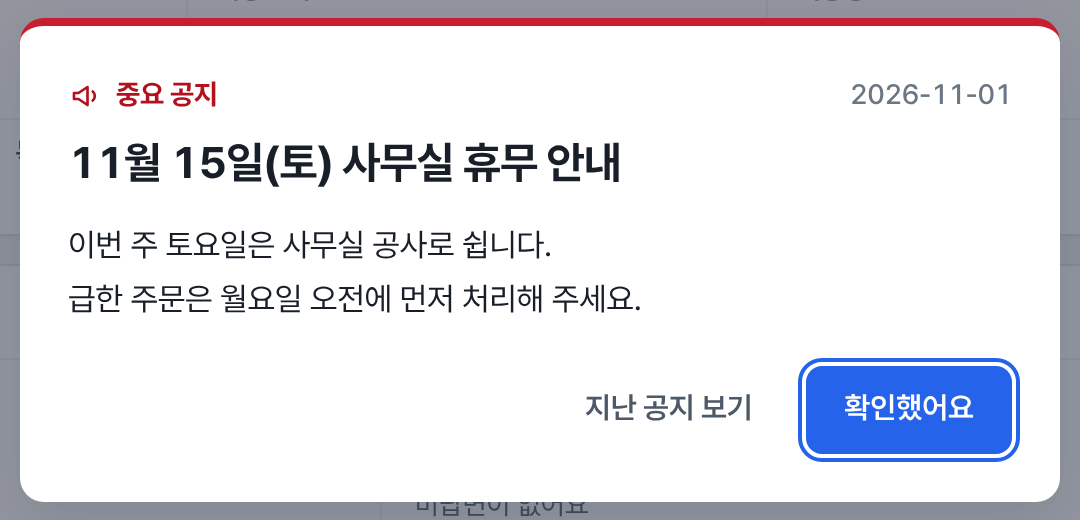
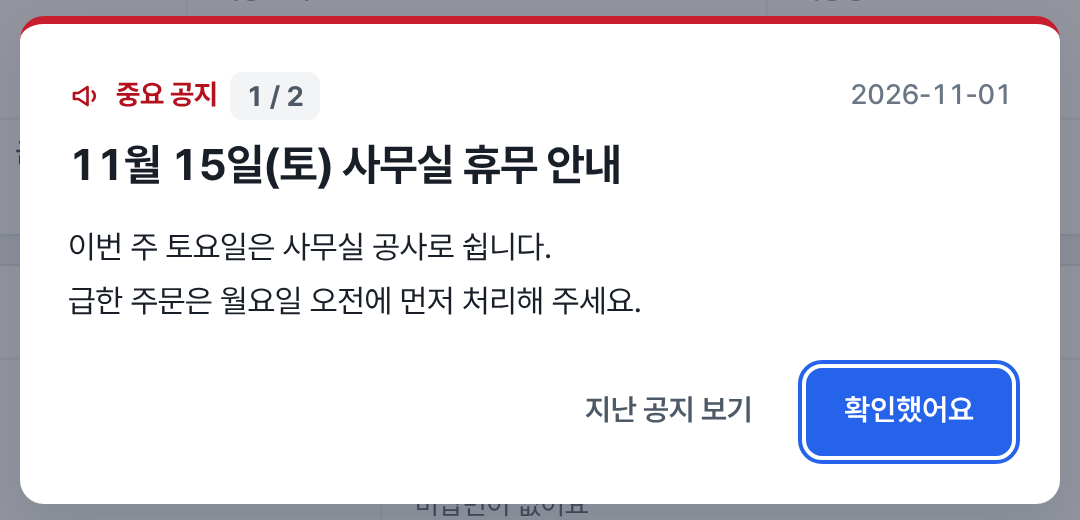
G마켓·옥션 주문확인·발송처리를 인트라넷에서 (ESM_WRITE=on 일 때만 실제로, 로젠 10003·경동 10016, 택배만), 공지 팝업에 몇 번째인지(1 / 3)
- esmClient: OrderCheck·ShippingInfo 를 허용 목록에 (write, allowWrite 클라이언트만, 처리 요청은 다시 보내지 않음)
- esm.js createEsmWriter, actions WRITE_CHANNELS 에 esm, server.js ESM_WRITE, .env.example·DEPLOY 20장
- 로젠 자동 발송처리도 G마켓·옥션 발주확인 주문에 적용
- 사용 방법 G마켓·옥션·공지 글, 공지 팝업 그림

Claude-Session: https://claude.ai/code/session_01Abfsu9LLooC7rduTcq19z3

diff --git a/src/channels/esmClient.js b/src/channels/esmClient.js
@@ -1,7 +1,8 @@
 // G마켓·옥션 (ESM Trading API) 연결
 //
-// 안전장치 1: 아래 ALLOWED 에 맞는 주소만 호출할 수 있다 (지금은 조회만: 주문·취소·반품·교환).
-// 안전장치 2: 상태를 바꾸는 주소(주문확인·발송처리 등)는 아직 목록에 없다 — 다음 단계에서 ESM_WRITE=on 일 때만 더한다.
+// 안전장치 1: 아래 ALLOWED 에 맞는 주소만 호출할 수 있다 (조회: 주문·취소·반품·교환 / 처리: 주문확인·발송처리).
+// 안전장치 2: 상태를 바꾸는 주소(write: true)는 allowWrite 로 만든 클라이언트만 부른다 — 서버는 .env 의 ESM_WRITE=on 일 때만 만든다.
+//            처리 요청은 다시 보내지 않는다 (두 번 처리되지 않게).
 //
 // 인증(JWT, HS256): 매 요청마다 시크릿키로 서명한 토큰을 Authorization: Bearer 로 보낸다 (etapi.gmarket.com 'API 가이드')
 //   header  { alg: HS256, typ: JWT, kid: ESM+ 마스터 ID }
@@ -26,6 +27,9 @@ const ALLOWED = [
   { method: 'POST', pattern: /^\/claim\/v1\/sa\/Cancels$/ },
   { method: 'POST', pattern: /^\/claim\/v1\/sa\/Returns$/ },
   { method: 'POST', pattern: /^\/claim\/v1\/sa\/Exchanges$/ },
+  // 처리 (ESM_WRITE=on 일 때만): 주문확인(결제완료 → 배송준비중), 발송처리(택배사·송장번호 → 배송중)
+  { method: 'POST', pattern: /^\/shipping\/v1\/Order\/OrderCheck\/\d+$/, write: true },
+  { method: 'POST', pattern: /^\/shipping\/v1\/Delivery\/ShippingInfo$/, write: true },
 ];
 
 function findAllowed(method, path) {
@@ -72,6 +76,7 @@ function createEsmClient({
   fetchFn = fetch,
   sleep = realSleep,
   now = () => new Date(),
+  allowWrite = false,
 } = {}) {
   let nextAny = 0;
   let nextRange = 0;
@@ -86,9 +91,14 @@ function createEsmClient({
   }
   const rangeDone = () => { nextRange = Date.now() + RANGE_GAP_MS; };
 
-  async function request(method, path, json = {}) {
-    if (!findAllowed(method, path)) {
+  // opts.site: 'G' / 'A' — 본문에 사이트가 없는 처리 요청(주문확인·발송처리)에서 토큰에 넣을 사이트
+  async function request(method, path, json = {}, opts = {}) {
+    const rule = findAllowed(method, path);
+    if (!rule) {
       throw Object.assign(new Error(`허용되지 않은 G마켓·옥션 API 호출입니다: ${method} ${path}`), { notSent: true });
+    }
+    if (rule.write && !allowWrite) {
+      throw Object.assign(new Error(`G마켓·옥션 주문 처리가 꺼져 있습니다 (ESM_WRITE=on 이 아님): ${method} ${path}`), { notSent: true });
     }
     if (!masterId || !secretKey || !sites.length) {
       throw Object.assign(new Error('ESM_MASTER_ID / ESM_SECRET_KEY / ESM_GMARKET_ID(또는 ESM_AUCTION_ID) 가 .env 에 없습니다.'), { notSent: true });
@@ -97,8 +107,9 @@ function createEsmClient({
     const isRange = /RequestOrders$/.test(path) && Number(json.orderStatus) !== 0;
     // 이 요청의 사이트 (1 옥션 · 2 G마켓) → 토큰에 그 사이트 판매자 ID 하나만
     //   (정산조회는 사이트를 숫자 대신 'A'·'G' 글자로 보낸다)
-    const rawSite = json.siteType ?? json.SiteType;
+    const rawSite = opts.site ?? json.siteType ?? json.SiteType;
     const site = rawSite === 'A' || Number(rawSite) === 1 ? 'A' : rawSite === 'G' || Number(rawSite) === 2 ? 'G' : null;
+    if (rule.write && !site) throw Object.assign(new Error('처리할 사이트(G마켓·옥션)를 알 수 없습니다.'), { notSent: true });
     for (let attempt = 0; ; attempt++) {
       await wait(isRange);
       let res;
@@ -122,13 +133,13 @@ function createEsmClient({
       let body = null;
       try { body = text ? JSON.parse(text) : null; } catch { body = null; }
       // 429(요청이 많음)는 처리하지 않고 거절한 것이라 다시 보내도 안전하다 (조회만 하므로)
-      if (res.status === 429 && attempt < RETRY_WAITS_MS.length) {
+      if (res.status === 429 && !rule.write && attempt < RETRY_WAITS_MS.length) {
         await sleep(RETRY_WAITS_MS[attempt]);
         continue;
       }
       const code = body && (body.ResultCode ?? body.resultCode);
       const busyMsg = body && (body.Message || body.message);
-      if (isBusy(code, busyMsg) && attempt < BUSY_WAITS_MS.length) {
+      if (isBusy(code, busyMsg) && !rule.write && attempt < BUSY_WAITS_MS.length) {
         await sleep(BUSY_WAITS_MS[attempt]);
         continue;
       }

diff --git a/src/channels/esm.js b/src/channels/esm.js
@@ -1,4 +1,4 @@
-// G마켓·옥션(ESM) 주문 가져오기 (1단계: 조회 전용)
+// G마켓·옥션(ESM) 주문 가져오기 (1단계: 조회) + 주문확인·발송처리 (2단계: ESM_WRITE=on 일 때만, 맨 아래 createEsmWriter)
 //
 // ESM 주문번호(OrderNo) 하나 = 상품 하나. 인트라넷에서는 주문번호 하나를 주문 카드 하나로 본다.
 //   번호 앞에 사이트를 붙인다: G-2946269058 (G마켓) · A-1234567890 (옥션)
@@ -255,4 +255,56 @@ function esmProductUrl(itemId, productNo) {
     : `https://itempage3.auction.co.kr/DetailView.aspx?itemno=${productNo}`;
 }
 
-module.exports = { createEsmSource, normalize, claimPatch, evenShipFee, splitId, esmProductUrl, STATUS_MAP, CLAIMS };
+// ── 주문확인·발송처리 (2단계, 서버 .env 의 ESM_WRITE=on 일 때만 만든다 — src/server.js) ──
+// 인트라넷 택배사 → ESM 택배사 코드 (ESM '택배사 리스트 조회': 10003 로젠택배 · 10016 경동택배)
+const ESM_COURIERS = { KGB: 10003, KDEXP: 10016 };
+// 발송일시: 한국 시각 'YYYY-MM-DDThh:mm:ss' (ESM 은 호출 시점 2일 안의 시각만 받는다)
+const kstStamp = date => new Date(date.getTime() + 9 * 3600 * 1000).toISOString().slice(0, 19);
+
+// 주문(=상품) 하나씩 보내고, 결과를 다른 채널과 같은 모양으로 모은다 (actions.js 의 parseResult)
+//   ESM 이 거절(4xx·코드 3000 등)하면 그 주문만 실패, 응답이 끊기면(5xx·시간 초과) 결과를 알 수 없음 → 그대로 던진다
+function createEsmWriter(options = {}) {
+  const client = options.client || createEsmClient({ ...options, allowWrite: true });
+  const now = options.now || (() => new Date());
+  async function each(ids, call) {
+    const success = [];
+    const fail = [];
+    for (const id of ids) {
+      const p = splitId(id);
+      if (!p) { fail.push({ productOrderId: id, message: '주문번호 모양이 다릅니다' }); continue; }
+      try {
+        await call(p, id);
+        success.push(id);
+      } catch (e) {
+        if (e.notSent || (e.status && e.status < 500) || (e.body && e.body.ResultCode !== undefined)) {
+          fail.push({ productOrderId: id, message: String(e.message || '실패').replace(/^G마켓·옥션 API 오류 \([^)]*\):\s*/, '') });
+        } else {
+          throw e;
+        }
+      }
+    }
+    return { data: { successProductOrderIds: success, failProductOrderInfos: fail } };
+  }
+  return {
+    // 주문확인: 결제완료 → 배송준비중
+    confirm(itemIds) {
+      return each(itemIds, p => client.request('POST', `/shipping/v1/Order/OrderCheck/${p.orderNo}`, {}, { site: p.site }));
+    },
+    // 발송처리: 택배사 코드 + 송장번호 (ESM 은 택배로만)
+    dispatch(list) {
+      const byId = new Map(list.map(l => [l.productOrderId, l]));
+      return each(list.map(l => l.productOrderId), (p, id) => {
+        const l = byId.get(id);
+        const code = ESM_COURIERS[l.deliveryCompanyCode];
+        if (l.deliveryMethod !== 'DELIVERY' || !code || !l.trackingNumber) {
+          throw Object.assign(new Error('G마켓·옥션은 택배(로젠·경동)와 송장번호로만 발송처리할 수 있어요.'), { notSent: true });
+        }
+        return client.request('POST', '/shipping/v1/Delivery/ShippingInfo', {
+          OrderNo: Number(p.orderNo), ShippingDate: kstStamp(now()), DeliveryCompanyCode: code, InvoiceNo: String(l.trackingNumber),
+        }, { site: p.site });
+      });
+    },
+  };
+}
+
+module.exports = { createEsmSource, createEsmWriter, ESM_COURIERS, normalize, claimPatch, evenShipFee, splitId, esmProductUrl, STATUS_MAP, CLAIMS };

diff --git a/src/actions.js b/src/actions.js
@@ -1,11 +1,11 @@
-// 주문 처리: 발주확인, 발송처리 (2차 스마트스토어, 3차 쿠팡·자사몰), 발송지연 처리 (스마트스토어만)
+// 주문 처리: 발주확인, 발송처리 (2차 스마트스토어, 3차 쿠팡·자사몰, G마켓·옥션), 발송지연 처리 (스마트스토어만)
 //
 // 흐름: ① 주문 묶음(본상품 + 추가상품)에서 처리할 수 있는 상품만 고른다
 //       ② 네이버로 보낸다 (연습 모드면 보내지 않는다)
 //       ③ 네이버가 "성공" 이라고 답한 상품만 인트라넷에도 반영한다
 //       ④ 누가·언제·무엇을 했는지 order_actions 표에 남긴다
 //
-// 연습 모드: 채널마다 따로. .env 의 NAVER_WRITE=on / COUPANG_WRITE=on / GODO_WRITE=on 이 아니면 그 채널의 writer 가 없고,
+// 연습 모드: 채널마다 따로. .env 의 NAVER_WRITE=on / COUPANG_WRITE=on / GODO_WRITE=on / ESM_WRITE=on 이 아니면 그 채널의 writer 가 없고,
 //           바깥으로 아무것도 보내지 않는다.
 const { transaction } = require('./db');
 const { getSetting, lastStageId } = require('./collector');
@@ -16,12 +16,13 @@ const { toKstIso } = require('./channels/smartstore');
 const ITEM_ORDER = "CASE WHEN item_type = 'addon' THEN 1 ELSE 0 END, id";
 
 // 처리 버튼이 있는 채널
-const WRITE_CHANNELS = ['smartstore', 'coupang', 'godo'];
+const WRITE_CHANNELS = ['smartstore', 'coupang', 'godo', 'esm'];
 // 안내 문구용 (받침에 따라 '로/으로', '가/이'), admin: 처리됐는지 직접 확인할 곳
 const CHANNEL_NAMES = {
   smartstore: { name: '네이버', ro: '네이버로', ga: '네이버가', admin: '판매자센터' },
   coupang: { name: '쿠팡', ro: '쿠팡으로', ga: '쿠팡이', admin: '쿠팡 WING' },
   godo: { name: '자사몰', ro: '자사몰로', ga: '자사몰이', admin: '자사몰 관리자' },
+  esm: { name: 'G마켓·옥션', ro: 'G마켓·옥션으로', ga: 'G마켓·옥션이', admin: 'ESM PLUS' },
 };
 
 // 진행 중인 취소·반품·교환이 있으면 처리하지 않는다 (먼저 판매자센터에서 클레임을 처리해야 함)
@@ -222,10 +223,10 @@ function createOrderActions({ db, writer = null, writers = {}, now = () => new D
     const dispatchDate = toKstIso(now());
     // 쿠팡은 택배(송장번호)로만 발송처리할 수 있다
     const target = findOrder(orderId);
-    if (target && target.channel === 'coupang' && shipping.method !== 'DELIVERY') {
+    if (target && (target.channel === 'coupang' || target.channel === 'esm') && shipping.method !== 'DELIVERY') {
       return Promise.resolve({
         result: 'skip', orderId: target.id, itemIds: [],
-        message: `'${target.product_name}': 쿠팡 주문은 택배(택배사·송장번호)로만 발송처리할 수 있습니다.`,
+        message: `'${target.product_name}': ${target.channel === 'esm' ? 'G마켓·옥션' : '쿠팡'} 주문은 택배(택배사·송장번호)로만 발송처리할 수 있습니다.`,
       });
     }
     return run({

diff --git a/src/server.js b/src/server.js
@@ -5,7 +5,7 @@ const { openDb } = require('./db');
 const { createApp } = require('./app');
 const { createOrderSource } = require('./channels');
 const { createCollector, createChannelCollector, getSetting, setSetting } = require('./collector');
-const { createEsmSource } = require('./channels/esm');
+const { createEsmSource, createEsmWriter } = require('./channels/esm');
 const { createChannelRegistry, CHANNELS } = require('./channelRegistry');
 const { createCoupangSource, createCoupangWriter } = require('./channels/coupang');
 const { createGodoSource, createGodoWriter } = require('./channels/godo');
@@ -73,12 +73,15 @@ const godoLive = process.env.GODO_WRITE === 'on' && Boolean(process.env.GODO_WRI
 if (process.env.GODO_WRITE === 'on' && !godoLive) {
   console.warn('[주의] GODO_WRITE=on 이지만 GODO_WRITE_KEY 나 GODO_API_KEY 가 없어서 자사몰은 연습 모드로 실행합니다.');
 }
+// G마켓·옥션 주문확인·발송처리: ESM_WRITE=on 이고 ESM 키가 있고 G마켓·옥션 수집이 켜져 있을 때만 (그 밖에는 연습 모드)
+const esmLive = process.env.ESM_WRITE === 'on' && esmReady && process.env.ESM !== 'off';
 const actions = createOrderActions({
   db,
   writer: liveWrite ? createSmartstoreWriter() : null,
   writers: {
     coupang: coupangLive ? createCoupangWriter() : null,
     godo: godoLive ? createGodoWriter() : null,
+    esm: esmLive ? createEsmWriter() : null,
   },
 });
 // 4차 문의함: .env 에 메일 계정(앱 비밀번호)이 있는 것만 받는다. 답장은 MAIL_SEND=on 일 때만 실제로 보냄 (그 밖에는 연습 모드)
@@ -220,7 +223,7 @@ app.listen(PORT, HOST, () => {
   console.log(`브로애드 인트라넷 실행 중: http://${HOST || 'localhost'}:${PORT}`);
   console.log(`발주확인·발송처리: ${actions.mode === 'live' ? '실제로 네이버에 보냄 (NAVER_WRITE=on)' : '연습 모드 (네이버로 보내지 않음)'}`);
   if (coupangReady) console.log(`쿠팡 상품준비중·송장: ${coupangLive ? '실제로 쿠팡에 보냄 (COUPANG_WRITE=on)' : '연습 모드 (쿠팡으로 보내지 않음)'}`);
-  if (esmReady) console.log(`G마켓·옥션: 주문 가져오기 켜짐 (${esmStart} 결제분부터, 조회만 — 주문확인·발송처리는 다음 단계)`);
+  if (esmReady) console.log(`G마켓·옥션: 주문 가져오기 켜짐 (${esmStart} 결제분부터) · 주문확인·발송처리: ${esmLive ? '실제로 G마켓·옥션에 보냄 (ESM_WRITE=on)' : '연습 모드 (G마켓·옥션으로 보내지 않음)'}`);
   if (godoReady) console.log(`자사몰 발주확인·송장: ${godoLive ? '실제로 자사몰에 보냄 (GODO_WRITE=on)' : '연습 모드 (자사몰로 보내지 않음)'}`);
   if (inboxCollector) {
     console.log(`문의함: ${inboxSources.map(s => s.label).join(' + ')}, ${intervalMinutes(db, 'inbox_interval_minutes')}분마다`);

diff --git a/src/routes/notices.js b/src/routes/notices.js
@@ -19,11 +19,18 @@ const ACTIVE_SQL = 'n.starts_on <= ? AND (n.ends_on IS NULL OR n.ends_on >= ?)';
 function popupNotice(db, user) {
   if (!user || user.status !== 'active') return null;
   const today = kstToday();
-  return db.prepare(`
+  const n = db.prepare(`
     SELECT n.id, n.title, n.body, n.important, n.starts_on FROM notices n
     WHERE ${ACTIVE_SQL} AND NOT EXISTS (SELECT 1 FROM notice_reads r WHERE r.notice_id = n.id AND r.user_id = ?)
     ORDER BY n.important DESC, n.id ASC LIMIT 1
-  `).get(today, today, user.id) || null;
+  `).get(today, today, user.id);
+  if (!n) return null;
+  // 몇 번째 공지인지: 지금 보이는 공지 전체 중 (이미 확인한 것 + 1) — '공지 1 / 3'
+  const c = db.prepare(`
+    SELECT COUNT(*) AS total, COALESCE(SUM(EXISTS (SELECT 1 FROM notice_reads r WHERE r.notice_id = n.id AND r.user_id = ?)), 0) AS done
+    FROM notices n WHERE ${ACTIVE_SQL}
+  `).get(user.id, today, today);
+  return { ...n, index: c.done + 1, total: c.total };
 }
 
 // 쓴 값 확인: 제목은 꼭, 날짜는 YYYY-MM-DD, 끝나는 날은 시작보다 뒤

diff --git a/public/style.css b/public/style.css
@@ -2299,6 +2299,7 @@ a.hm-due .hm-ev-who { color: var(--primary-text); }
 .notice-pop-kind { display: flex; align-items: center; gap: 6px; margin: 0 0 8px; color: var(--primary-text); font-size: 14px; font-weight: 700; }
 .notice-pop-box.important .notice-pop-kind { color: var(--error-ink); }
 .notice-pop-kind svg { width: 18px; height: 18px; fill: none; stroke: currentColor; stroke-width: 1.8; stroke-linecap: round; stroke-linejoin: round; }
+.notice-pop-count { padding: 0 8px; border-radius: 6px; background: var(--line-2); color: var(--text-2); font-size: 14px; font-weight: 700; line-height: 24px; font-variant-numeric: tabular-nums; }
 .notice-pop-date { margin-left: auto; color: var(--muted); font-weight: 500; font-variant-numeric: tabular-nums; }
 .notice-pop-box h2 { margin: 0 0 12px; font-size: 22px; line-height: 1.35; }
 .notice-pop-body { margin: 0 0 20px; color: var(--text); font-size: 16px; line-height: 1.7; white-space: pre-line; word-break: keep-all; overflow-wrap: anywhere; }

diff --git a/docs/guide.md b/docs/guide.md
@@ -250,10 +250,13 @@ G마켓·옥션 주문도 주문 목록에 저절로 들어와요. 판매처 표
 
 ![G마켓·옥션 주문이 목록에 들어온 모습 (예시 화면)](/guide-img/esm-orders.png)
 
-- **지금은 주문을 가져와서 보여 주기만 해요.** 주문확인과 발송처리(송장 입력)는 지금처럼 **ESM PLUS**(G마켓·옥션 판매자센터)에서 해 주세요. 그래서 G마켓·옥션 주문을 체크해도 **발주확인**, **송장 입력·발송처리** 버튼은 0건으로 흐리게 보여요.
-- ESM PLUS에서 주문확인하거나 발송처리하면 5분 안에 인트라넷 상태도 바뀌어요. 예: 'G마켓 신규주문' → 'G마켓 발송대기중' → 'G마켓 배송중'.
+- **발주확인**과 **송장 입력·발송처리**를 다른 주문처럼 인트라넷에서 해요. 누르면 G마켓·옥션(ESM PLUS)으로 바로 보내요.
+  - 발주확인 → G마켓 '발송대기중'(배송준비중), 발송처리 → G마켓 '배송중'으로 바뀌고 고객이 송장으로 배송 조회를 할 수 있어요.
+  - G마켓·옥션은 **택배(로젠·경동)와 송장번호로만** 발송처리할 수 있어요. 퀵·방문수령은 ESM PLUS에서 해 주세요.
+  - 목록 위에 **연습 모드 G마켓·옥션**이 보이면 아직 실제로 보내지 않는 상태예요(관리자가 서버 설정에서 켜야 해요). 그때는 ESM PLUS에서 직접 처리해 주세요.
+- ESM PLUS에서 직접 주문확인하거나 발송처리해도 5분 안에 인트라넷 상태가 바뀌어요. 예: 'G마켓 신규주문' → 'G마켓 발송대기중' → 'G마켓 배송중'.
 - 디자인 단계, 담당 디자이너, 납기, 메모, 시안 올리기, 발주서·작업지시서 출력은 다른 주문과 똑같이 써요.
-- **로젠 등록**도 인트라넷에서 할 수 있어요. iLOGEN에서 출력해 송장번호가 생기면, 그 송장번호를 **ESM PLUS에 직접 넣어** 발송처리해 주세요.
+- **로젠 등록**도 인트라넷에서 할 수 있어요. 발주확인한 주문은 iLOGEN에서 출력해 송장번호가 들어오면, **자동 발송처리**가 켜져 있을 때 G마켓·옥션에도 저절로 발송처리돼요.
 - 취소·반품·교환 요청은 15분마다 확인해서 빨간 표시로 보여 줘요. 처리는 ESM PLUS에서 해 주세요.
 - G마켓·옥션 연결을 켠 날 결제한 주문부터 들어와요. 그 전 주문은 예전처럼 수기 주문으로 남아 있어요.
 - 통계의 G마켓·옥션 매출은 **고객이 결제한 주문 금액**이에요. ESM PLUS 판매내역은 취소·반품을 그 달에 빼서 보여 줘서 금액이 조금(2% 안팎) 다를 수 있어요. 통계 화면 **채널별 매출** 아래에도 이 안내가 나와요.
@@ -510,6 +513,7 @@ G마켓·옥션 주문도 주문 목록에 저절로 들어와요. 판매처 표
 
 - 관리자가 공지를 올리면, 인트라넷을 열 때 화면 가운데에 공지 팝업이 떠요. **확인했어요**를 누르면 닫히고, 그 공지는 다시 안 떠요.
 - 중요 공지는 빨간 줄로 표시되고 다른 공지보다 먼저 떠요.
+- 확인 안 한 공지가 여러 개면 **하나씩 차례로** 떠요. 팝업 위에 **1 / 3**처럼 몇 번째 공지인지 보여요.
 - 지난 공지는 홈 맨 위 공지 줄이나 팝업의 **지난 공지 보기**에서 다시 볼 수 있어요.
 
 ![회사 공지 팝업 (예시 화면)](/guide-img/notice-popup.png)
